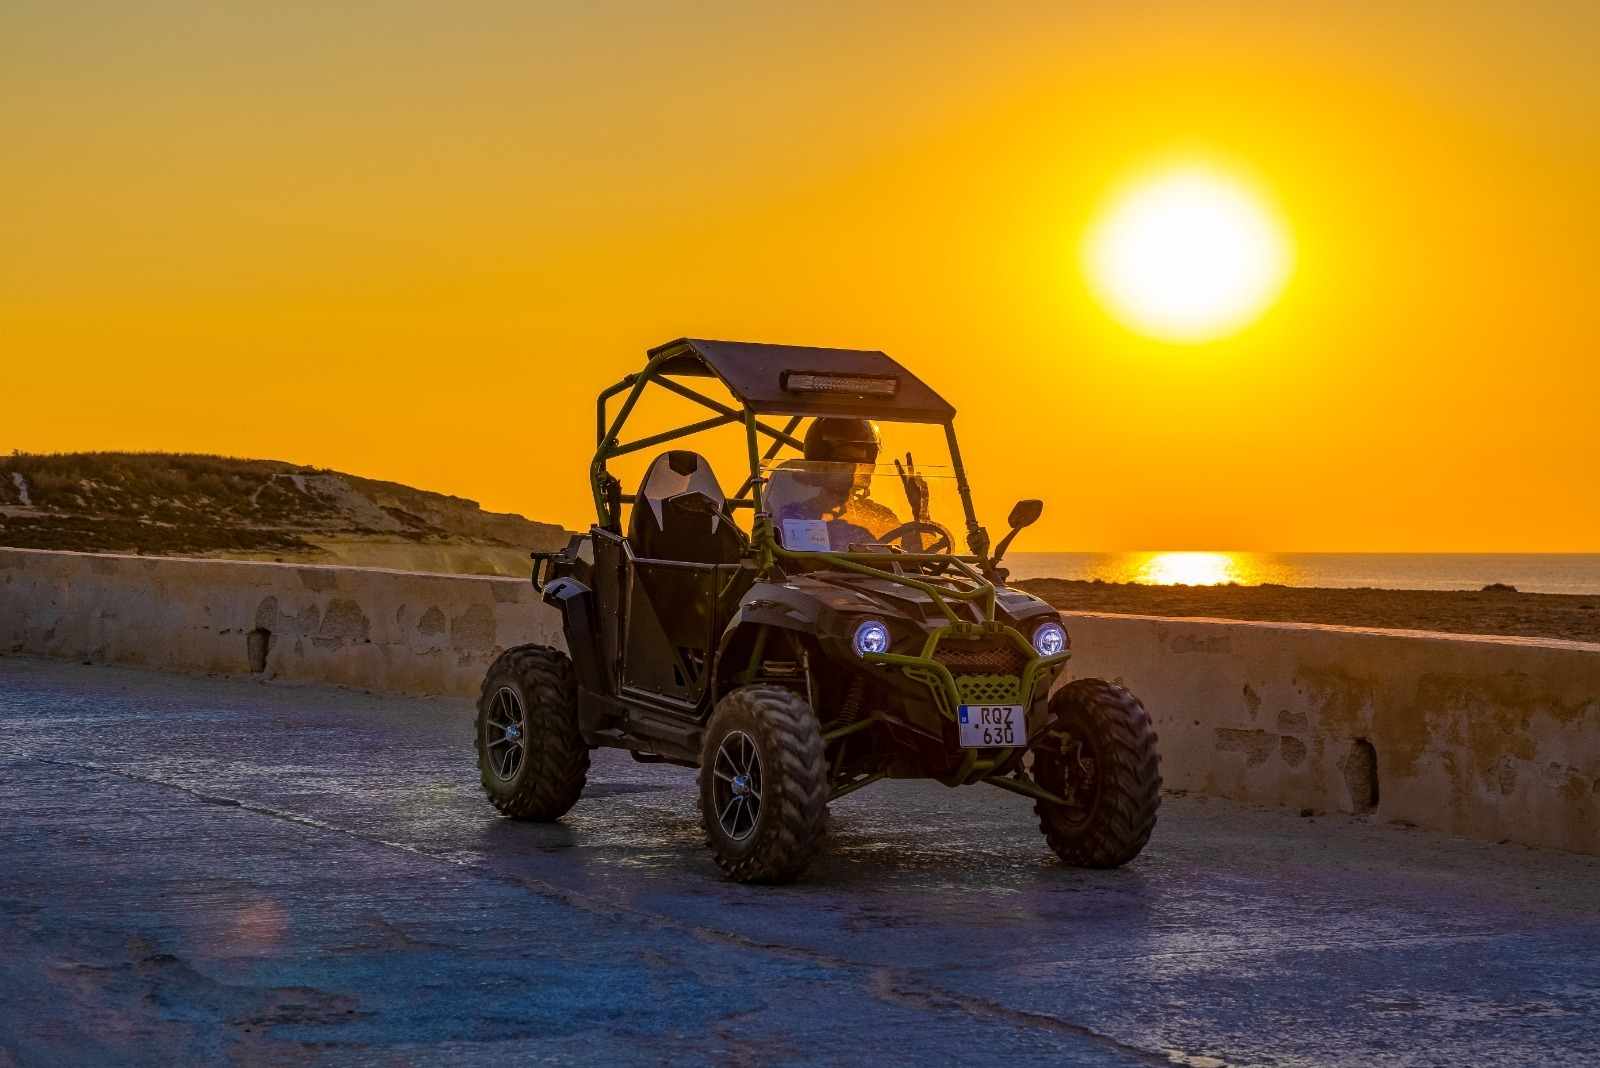
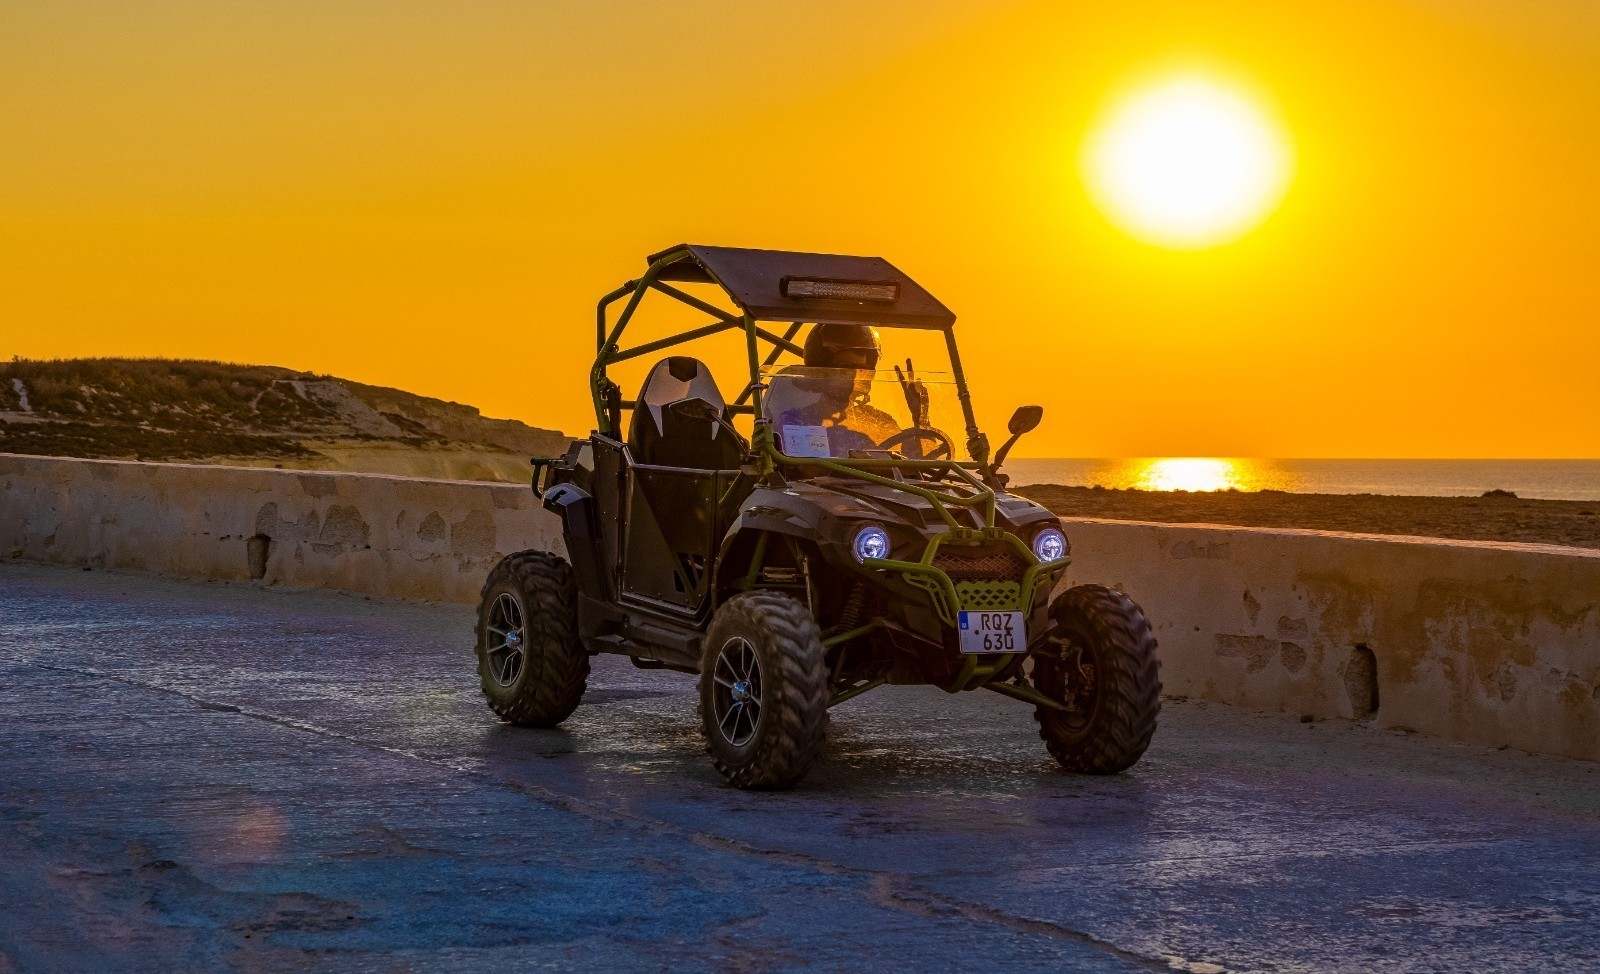
verder gewerkt aan styling zodat het zoiezo voor pc al responsiever is. + added the new picture for buggy's + fixed footer

diff --git a/style.css b/style.css
@@ -4,7 +4,6 @@ body {
 	margin: 0px;
 	padding: 0px;
 	background-color: #f8f7d3;
-
 	display: grid;
 }
 .grid {
@@ -78,19 +77,23 @@ nav {
 	justify-content: space-evenly;
 }
 .nav-us {
-	width: 15%;
+	width: max-content;
+	a
+}
+.nav-us a {
+	margin: 0.5vh 1vw;
+	max-width: max-content;
 }
 nav a {
 	color: black;
 	text-decoration: none;
-	font-size: 1.25rem;
+	font-size: 1.25vw;
 	font-weight: 700;
-	vertical-align: middle;
+	align-self: center;
 	margin: 0;
 }
-.nav-categories a,
-.nav-us a {
-	margin-top: 1vh;
+.nav-categories a {
+	margin-top: 0.5vh;
 }
 .nav-categories a:hover {
 	text-decoration: underline;
@@ -107,8 +110,9 @@ nav a {
 	justify-content: space-between;
 }
 #language-flag {
-	height: 75%;
-	transform: translateY(25%);
+	height: 50%;
+	width: auto;
+	transform: translateY(50%);
 	object-fit: contain;
 }
 #language-menu {
@@ -118,10 +122,12 @@ nav a {
 	height: 8vh;
 	background-color: #ffffff;
 	padding: 1%;
+	border-bottom-right-radius: 15px;
+	border-bottom-left-radius: 15px;
 }
 .flag {
 	height: 100%;
-	width: 2.25vw;
+	width: 1.75vw;
 	object-fit: cover;
 }
 /* ____________________________________________________________________________________________________________________________________ */
@@ -283,32 +289,38 @@ h5 {
 
 /* footer _____________________________________________________________________________________________________________________________________ */
 footer {
-	height: auto;
+	height: max-content;
+	padding: 2.5vh 14vh;
+	background-image: url(images/footer-image.png);
+	background-position-y: 25%;
+	background-position-x: 30%;
 }
-.footer-image {
-	z-index: 5;
-	position: absolute;
-	width: 100%;
-}
+
 .footer-info {
 	align-self: center;
 	z-index: 6;
-	height: 50%;
-	padding: 5% 15vh;
+	height: 100%;
 }
-.footer-info img {
-	height: 75%;
+.footer-info div {
+	margin: 5% 0;
+	height: 2rem;
+}
+.footer-logo {
+	height: 100%;
+	object-fit: contain;
 }
 footer a {
 	color: #ffffff;
-	font-size: 2rem;
+	font-size: 1.5vw;
 	text-decoration: none;
-	margin-left: 10%;
+	margin-left: 5%;
+	width: 100%;
+	align-self: center;
 }
 .footer-gmaps {
 	z-index: 6;
-	height: 60%;
-	padding: 5% 15vh 0% 15vh;
+	height: 20vh;
+	align-self: center;
 }
 .pop-up {
 	position: fixed;
@@ -349,4 +361,12 @@ footer a {
 }
 .display-none {
 	display: none;
+}
+@media screen and (max-width: 768px) {
+	#nav-bar {
+		display: none;
+	}
+	#nav-mobile{
+		display: flex;
+	}
 }

diff --git a/index.html b/index.html
@@ -33,6 +33,9 @@
 				<a href="fr/index.html"><img src="images/fr-flag.png" class="flag" alt=""></a>
 			</div>
 		</nav>
+		<nav id="nav-mobile">
+			<img src="images/logo.png" class="logo" alt="" />
+		</nav>
 		<div class="cards flex space-between">
 			<a href="en/quads.html" class="card color-1-bg">
 				<img src="images/quads.png" alt="" />
@@ -55,12 +58,12 @@
 		<!-- start of page ------------------------------------------------------------------------------------------------------------------------------------------------------------------->
 		<div class="flex space-between padding main_info">
 			<div class="text-width">
-				<h1>Begeleide quadritten</h1>
+				<h1>Guided quad/buggy tours</h1>
 				<h2>An adventure on wheels</h2>
 				<p>
-					Are you ready for an exciting adventure on four wheels?<br /><br />
-					At Quadadventures-Murcia, we offer guided quad rides, perfect for anyone who wants to experience thrills of riding a quad bike. <br /><br />
-					Whether you are planning with family or relatives, team building, bachelor party or just a fun day with friends, our guided quad rides are a great choice.
+					Are you ready for an exciting adventure on four wheels?
+					At Quadadventures-Murcia, we offer guided quad / buggy rides, perfect for anyone who wants to experience thrills of riding a quad / buggy bike.
+					Whether you are planning with family or relatives, team building, bachelor party or just a fun day with friends, our guided quad / buggy rides are a great
 				</p>
 			</div>
 			<img src="images/quads.jpg" alt="foto quad" class="main_img" />
@@ -121,7 +124,6 @@
 		</div>
 		<!-- footer -------------------------------------------------------------------------------------------------------------------------------------->
 		<footer class="flex space-between">
-			<img src="images/footer-image.png" class="footer-image" alt="" />
 			<div class="flex space-between colomn footer-info ">
 				<div class="flex">
 					<img src="images/whatsapp.png" class="footer-logo" alt="" />
@@ -151,7 +153,6 @@ Contact us on Whatsapp
 		</div>
 		<script>
 			const navbar = document.getElementById('nav-bar');
-
 			window.addEventListener('scroll', () => {
 				if (window.scrollY > 50) { // Adjust this value based on when you want the color to change
 					navbar.classList.add('scrolled');

diff --git a/en/buggy.html b/en/buggy.html
@@ -32,7 +32,7 @@
 			</div>
 		</nav>
 
-		<img src="../images/buggy-side-angle.png" alt="" class="title-card" />
+		<img src="../images/buggy-sunset.jpg" alt="" class="title-card" />
 		<img src="../images/darken.png" alt="" class="title-card dark" />
 		<div class="flex header">
 			<div class="header-info secundary colomn flex space-between">
@@ -51,7 +51,10 @@
 					<img src="../images/quads-1u.png" class="route-img" alt="" />
 					<img src="../images/darken.png" class="route-img dark" alt="" />
 					<div class="route-info">
-						<h1>1u</h1>
+						<div class="sightseeing">
+							<h1>1u</h1>
+							<p>Introductory</p>
+						</div>
 						<h2>110€ per buggy</h2>
 						<p>
 							max 2 persons per buggy <br />
@@ -278,7 +281,7 @@
 		</div>
 		<!-- footer -------------------------------------------------------------------------------------------------------------------------------------->
 		<footer class="flex space-between">
-			<img src="../images/footer-image.png" class="footer-image" alt="" />
+			
 			<div class="flex space-between colomn footer-info ">
 				<div class="flex">
 					<img src="../images/whatsapp.png" class="footer-logo" alt="" />
@@ -297,9 +300,9 @@
 		</footer>
 		<div id="pop-up" class="pop-up flex colomn display-none">
 			<h1>
-Contact us on Whatsapp
-</h1>
-<h2>(During rides we are difficult to reach, send a text message if necessary)</h2>
+				Contact us on Whatsapp
+			</h1>
+			<h2>(During rides we are difficult to reach, send a text message if necessary)</h2>
 			<div class="flex">
 				<img src="../images/whatsapp-black.png" class="contact-logo" alt="" />
 				<a href="https://wa.me/34614336416" target="blank">+34 614 33 64 16</a>

diff --git a/en/quads.html b/en/quads.html
@@ -51,7 +51,10 @@
 					<img src="../images/quads-1u.png" class="route-img" alt="" />
 					<img src="../images/darken.png" class="route-img dark" alt="" />
 					<div class="route-info">
-						<h1>1u</h1>
+						<div class="sightseeing">
+							<h1>1u</h1>
+							<p>Introductory</p>
+						</div>
 						<h2>70€ per quad</h2>
 						<p>
 							*incl. fuel, insurance <br />combination
@@ -274,7 +277,6 @@
 		</div>
 		<!-- footer -------------------------------------------------------------------------------------------------------------------------------------->
 		<footer class="flex space-between">
-			<img src="../images/footer-image.png" class="footer-image" alt="" />
 			<div class="flex space-between colomn footer-info ">
 				<div class="flex">
 					<img src="../images/whatsapp.png" class="footer-logo" alt="" />
@@ -293,9 +295,9 @@
 		</footer>
 		<div id="pop-up" class="pop-up flex colomn display-none">
 			<h1>
-Contact us on Whatsapp
-</h1>
-<h2>(During rides we are difficult to reach, send a text message if necessary)</h2>
+				Contact us on Whatsapp
+			</h1>
+			<h2>(During rides we are difficult to reach, send a text message if necessary)</h2>
 			<div class="flex">
 				<img src="../images/whatsapp-black.png" class="contact-logo" alt="" />
 				<a href="https://wa.me/34614336416" target="blank">+34 614 33 64 16</a>

diff --git a/fr/buggy.html b/fr/buggy.html
@@ -32,7 +32,7 @@
 			</div>
 		</nav>
 
-		<img src="../images/buggy-side-angle.png" alt="" class="title-card" />
+		<img src="../images" alt="" class="title-card" />
 		<img src="../images/darken.png" alt="" class="title-card dark" />
 		<div class="flex header">
 			<div class="header-info secundary colomn flex space-between">
@@ -273,7 +273,7 @@
 		</div>
 		<!-- footer -------------------------------------------------------------------------------------------------------------------------------------->
 		<footer class="flex space-between">
-			<img src="../images/footer-image.png" class="footer-image" alt="" />
+			
 			<div class="flex space-between colomn footer-info ">
 				<div class="flex">
 					<img src="../images/whatsapp.png" class="footer-logo" alt="" />

diff --git a/nl/buggy.html b/nl/buggy.html
@@ -32,7 +32,7 @@
 			</div>
 		</nav>
 
-		<img src="../images/buggy-side-angle.png" alt="" class="title-card" />
+		<img src="../images" alt="" class="title-card" />
 		<img src="../images/darken.png" alt="" class="title-card dark" />
 		<div class="flex header">
 			<div class="header-info secundary colomn flex space-between">
@@ -272,7 +272,7 @@
 		</div>
 		<!-- footer -------------------------------------------------------------------------------------------------------------------------------------->
 		<footer class="flex space-between">
-			<img src="../images/footer-image.png" class="footer-image" alt="" />
+			
 			<div class="flex space-between colomn footer-info ">
 				<div class="flex">
 					<img src="../images/whatsapp.png" class="footer-logo" alt="" />

diff --git a/quads.css b/quads.css
@@ -1,22 +1,25 @@
 h3 {
-	font-size: 1.5rem;
+	font-size: 1.5vw;
 }
 nav {
 	background-color: #fff;
 }
 .title-card {
-	width: 90%;
-	justify-self: center;
+	width: 100%;
+	top: 0;
 	position: fixed;
 	z-index: -10;
+	object-fit: cover;
 }
 .dark {
 	opacity: 30%;
 }
 .exclusion {
-	width: 99.1vw;
+	width: 100%;
 	height: 100%;
 	z-index: 5;
+	top: 0;
+	object-fit: cover;
 }
 .header {
 	justify-content: center;
@@ -70,15 +73,15 @@ nav {
 	padding-top: 10%;
 }
 .route-info h1 {
-	font-size: 4rem;
+	font-size: 4vw;
 }
 .route-info h2 {
-	font-size: 2rem;
+	font-size: 2vw;
 	margin-top: -25%;
 }
 .sightseeing p {
 	margin: 0;
-	font-size: 1.5rem;
+	font-size: 1.5vw;
 }
 .route-beschrijving {
 	position: absolute;

diff --git a/nl/about-us.html b/nl/about-us.html
@@ -75,7 +75,7 @@
 		</div> -->
 		<!-- footer -------------------------------------------------------------------------------------------------------------------------------------->
 		<footer class="flex space-between">
-			<img src="../images/footer-image.png" class="footer-image" alt="" />
+			
 			<div class="flex space-between colomn footer-info ">
 				<div class="flex">
 					<img src="../images/whatsapp.png" class="footer-logo" alt="" />

diff --git a/fr/index.html b/fr/index.html
@@ -117,7 +117,7 @@
 		</div>
 		<!-- footer -------------------------------------------------------------------------------------------------------------------------------------->
 		<footer class="flex space-between">
-			<img src="../images/footer-image.png" class="footer-image" alt="" />
+			
 			<div class="flex space-between colomn footer-info ">
 				<div class="flex">
 					<img src="../images/whatsapp.png" class="footer-logo" alt="" />

diff --git a/fr/quads.html b/fr/quads.html
@@ -272,7 +272,7 @@
 		</div>
 		<!-- footer -------------------------------------------------------------------------------------------------------------------------------------->
 		<footer class="flex space-between">
-			<img src="../images/footer-image.png" class="footer-image" alt="" />
+			
 			<div class="flex space-between colomn footer-info ">
 				<div class="flex">
 					<img src="../images/whatsapp.png" class="footer-logo" alt="" />

diff --git a/nl/index.html b/nl/index.html
@@ -127,7 +127,7 @@
 		</div>
 		<!-- footer -------------------------------------------------------------------------------------------------------------------------------------->
 		<footer class="flex space-between">
-			<img src="../images/footer-image.png" class="footer-image" alt="" />
+			
 			<div class="flex space-between colomn footer-info ">
 				<div class="flex">
 					<img src="../images/whatsapp.png" class="footer-logo" alt="" />

diff --git a/nl/quads.html b/nl/quads.html
@@ -276,7 +276,7 @@
 		</div>
 		<!-- footer -------------------------------------------------------------------------------------------------------------------------------------->
 		<footer class="flex space-between">
-			<img src="../images/footer-image.png" class="footer-image" alt="" />
+			
 			<div class="flex space-between colomn footer-info ">
 				<div class="flex">
 					<img src="../images/whatsapp.png" class="footer-logo" alt="" />
